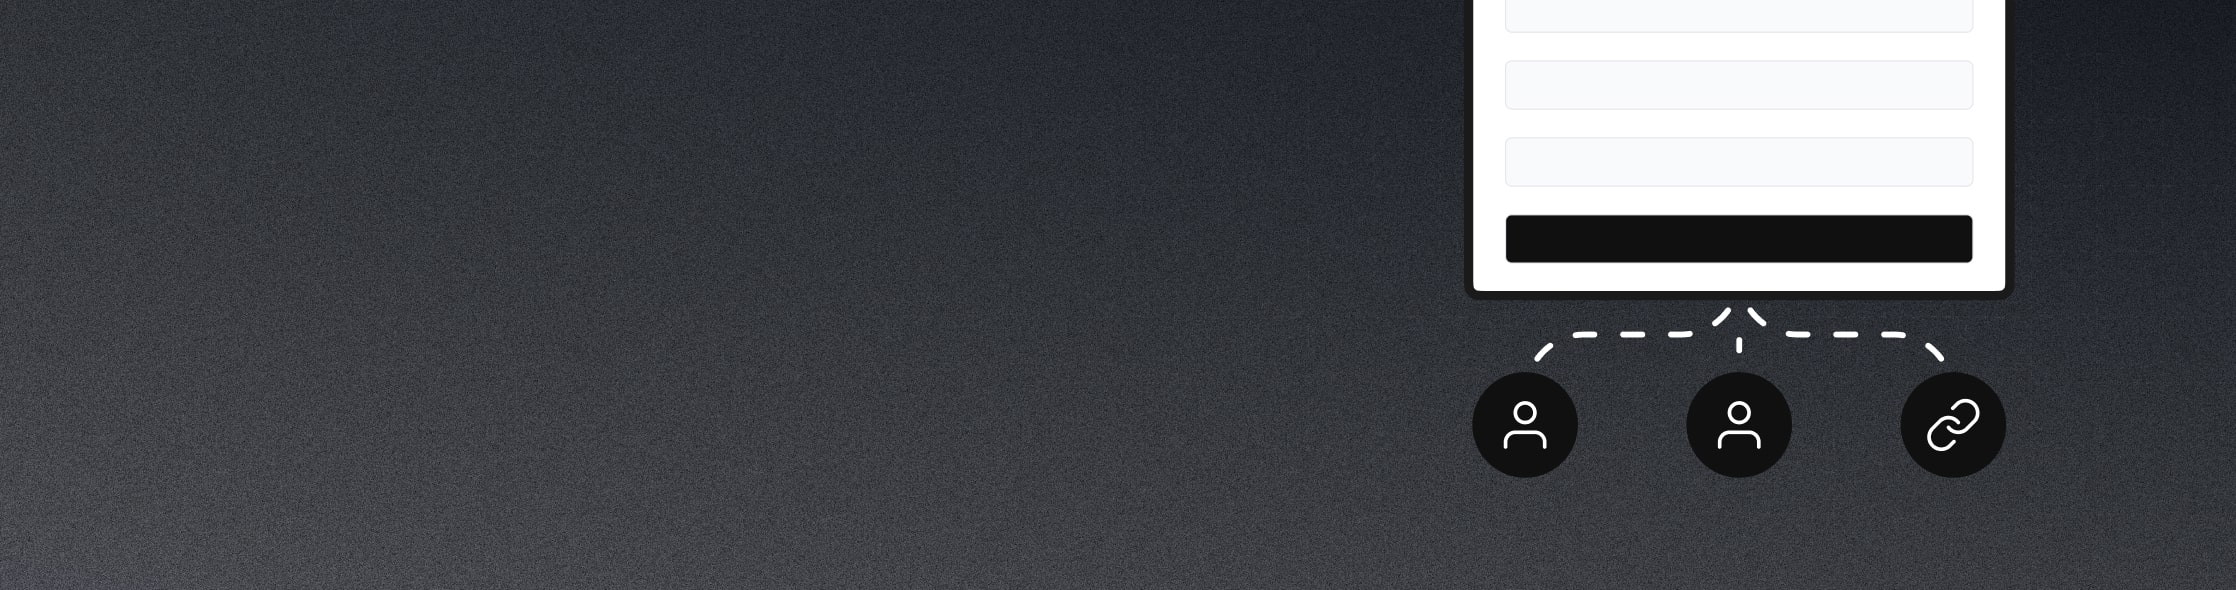
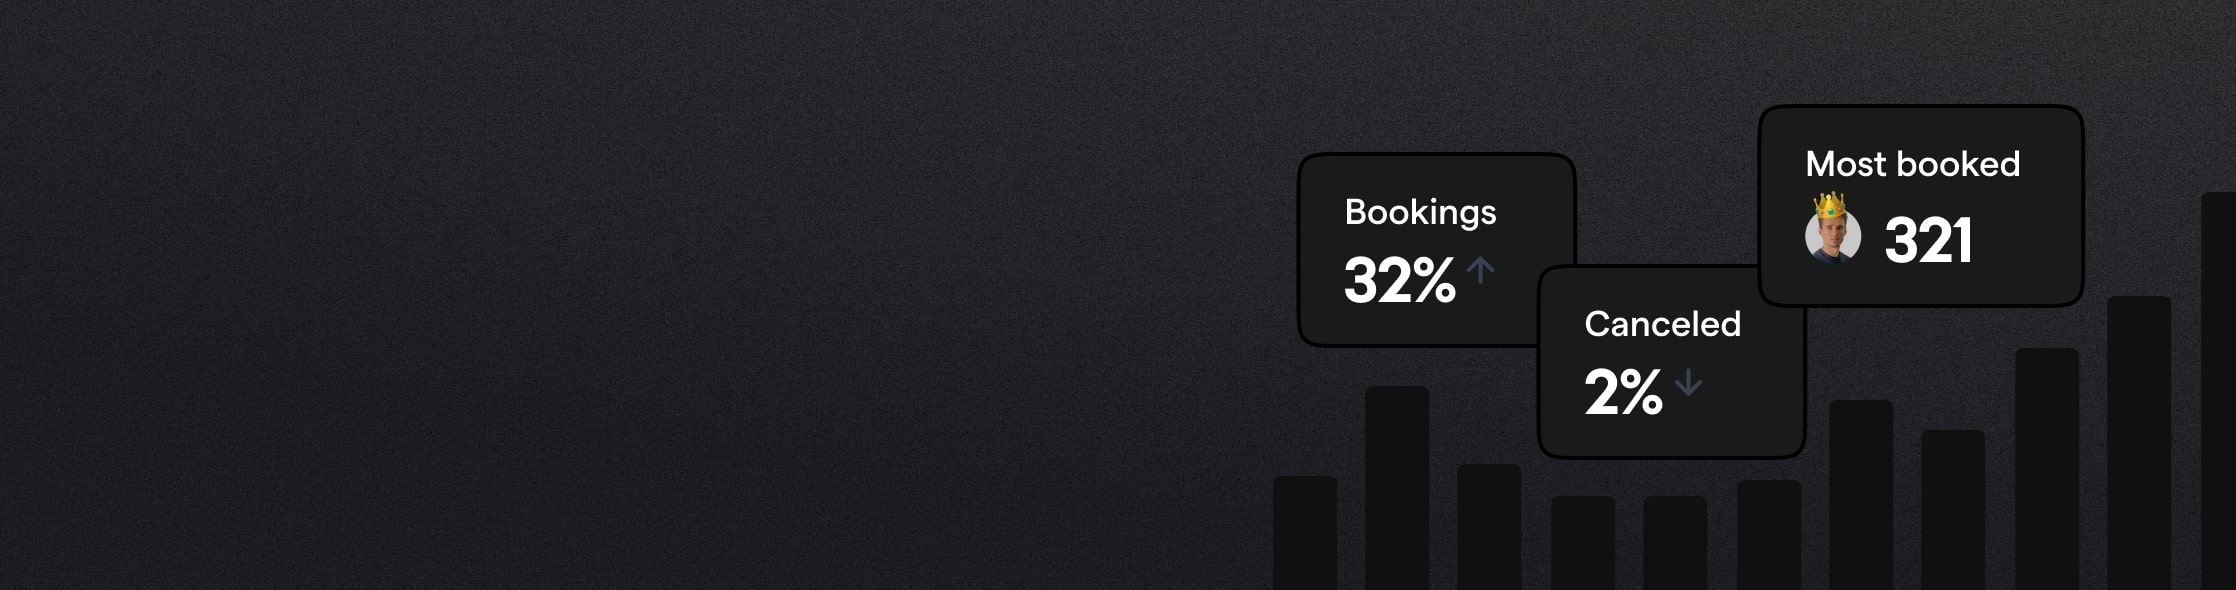
misc frontend fixes (#8416)
* (temp) dark mode changes (#8415)

* fixes skeletons, some wrong buttons, spacing, settings

diff --git a/apps/web/pages/[user].tsx b/apps/web/pages/[user].tsx
@@ -59,7 +59,7 @@ export default function User(props: inferSSRProps<typeof getServerSideProps> & E
       {eventTypes.map((type, index) => (
         <li
           key={index}
-          className=" border-subtle bg-default hover:bg-muted group relative border-b first:rounded-t-md last:rounded-b-md last:border-b-0">
+          className=" border-subtle bg-default dark:bg-muted dark:hover:bg-emphasis hover:bg-muted group relative border-b first:rounded-t-md last:rounded-b-md last:border-b-0">
           <ArrowRight className="text-emphasis absolute right-3 top-3 h-4 w-4 opacity-0 transition-opacity group-hover:opacity-100" />
           <Link
             href={getUsernameSlugLink({ users: props.users, slug: type.slug })}
@@ -123,7 +123,7 @@ export default function User(props: inferSSRProps<typeof getServerSideProps> & E
         <main
           className={classNames(
             shouldAlignCentrally ? "mx-auto" : "",
-            isEmbed ? " border-booker border-booker-width  bg-default rounded-md border" : "",
+            isEmbed ? "border-booker border-booker-width  bg-default rounded-md border" : "",
             "max-w-3xl py-24 px-4"
           )}>
           {isSingleUser && ( // When we deal with a single user, not dynamic group
@@ -161,7 +161,7 @@ export default function User(props: inferSSRProps<typeof getServerSideProps> & E
                 <div
                   key={type.id}
                   style={{ display: "flex", ...eventTypeListItemEmbedStyles }}
-                  className=" border-subtle bg-default hover:bg-muted group relative border-b first:rounded-t-md last:rounded-b-md last:border-b-0">
+                  className="border-subtle dark:bg-muted dark:hover:bg-emphasis hover:bg-muted group relative border-b first:rounded-t-md last:rounded-b-md last:border-b-0">
                   <ArrowRight className="text-emphasis  absolute right-4 top-4 h-4 w-4 opacity-0 transition-opacity group-hover:opacity-100" />
                   {/* Don't prefetch till the time we drop the amount of javascript in [user][type] page which is impacting score for [user] page */}
                   <div className="block w-full p-5">

diff --git a/apps/web/components/ui/UsernameAvailability/PremiumTextfield.tsx b/apps/web/components/ui/UsernameAvailability/PremiumTextfield.tsx
@@ -195,7 +195,7 @@ const PremiumTextfield = (props: ICustomUsernameProps) => {
         <span
           className={classNames(
             isInputUsernamePremium ? "border border-orange-400 " : "",
-            "border-default bg-muted text-subtle hidden h-9 items-center rounded-l-md border border-r-0 border-r-gray-300 px-3 text-sm md:inline-flex"
+            "border-default bg-muted text-subtle hidden h-9 items-center rounded-l-md border border-r-0 px-3 text-sm md:inline-flex"
           )}>
           {process.env.NEXT_PUBLIC_WEBSITE_URL.replace("https://", "").replace("http://", "")}/
         </span>
@@ -215,7 +215,7 @@ const PremiumTextfield = (props: ICustomUsernameProps) => {
                 : "border focus:border",
               markAsError
                 ? "focus:shadow-0 focus:ring-shadow-0 border-red-500  focus:border-red-500 focus:outline-none"
-                : "border-l-gray-300",
+                : "border-l-default",
               disabled ? "bg-subtle text-muted focus:border-0" : ""
             )}
             value={inputUsernameValue}
@@ -234,8 +234,8 @@ const PremiumTextfield = (props: ICustomUsernameProps) => {
                 isInputUsernamePremium ? "text-orange-400" : "",
                 usernameIsAvailable ? "" : ""
               )}>
-              {isInputUsernamePremium ? <StarIconSolid className="mt-[2px] w-6" /> : <></>}
-              {!isInputUsernamePremium && usernameIsAvailable ? <Check className="mt-2 w-6" /> : <></>}
+              {isInputUsernamePremium ? <StarIconSolid className="mt-[2px] h-4 w-4" /> : <></>}
+              {!isInputUsernamePremium && usernameIsAvailable ? <Check className="mt-2 h-4 w-4" /> : <></>}
             </span>
           </div>
         </div>

diff --git a/packages/features/settings/layouts/SettingsLayout.tsx b/packages/features/settings/layouts/SettingsLayout.tsx
@@ -255,8 +255,12 @@ const SettingsSidebarContainer = ({
                                   }),
                                 ])
                               }>
-                              <div className="ltr:mr-3 rtl:ml-3">
-                                {teamMenuState[index].teamMenuOpen ? <ChevronDown /> : <ChevronRight />}
+                              <div className="me-3">
+                                {teamMenuState[index].teamMenuOpen ? (
+                                  <ChevronDown className="h-4 w-4" />
+                                ) : (
+                                  <ChevronRight className="h-4 w-4" />
+                                )}
                               </div>
                               <img
                                 src={getPlaceholderAvatar(team.logo, team?.name as string)}
@@ -352,7 +356,7 @@ const MobileSettingsContainer = (props: { onSideContainerOpen?: () => void }) =>
           <button
             className="hover:bg-emphasis flex items-center space-x-2 rounded-md px-3 py-1 rtl:space-x-reverse"
             onClick={() => router.back()}>
-            <ArrowLeft className="text-default" />
+            <ArrowLeft className="text-default h-4 w-4" />
             <p className="text-emphasis font-semibold">{t("settings")}</p>
           </button>
         </div>

diff --git a/packages/ui/components/apps/AllApps.tsx b/packages/ui/components/apps/AllApps.tsx
@@ -94,7 +94,7 @@ function CategoryTab({ selectedCategory, categories, searchText }: CategoryTabPr
           }}
           className={classNames(
             selectedCategory === null ? "bg-emphasis text-default" : "bg-muted text-emphasis",
-            "hover:bg-emphasis rounded-md px-4 py-2.5 text-sm font-medium hover:cursor-pointer hover:text-gray-50"
+            "hover:bg-emphasis min-w-max rounded-md px-4 py-2.5 text-sm font-medium hover:cursor-pointer hover:text-gray-50"
           )}>
           {t("all_apps")}
         </li>
@@ -168,7 +168,7 @@ export function AllApps({ apps, searchText, categories }: AllAppsPropsType) {
       <CategoryTab selectedCategory={selectedCategory} searchText={searchText} categories={categories} />
       {filteredApps.length ? (
         <div
-          className="grid gap-3 lg:grid-cols-4 [@media(max-width:1270px)]:grid-cols-3 [@media(max-width:730px)]:grid-cols-2 [@media(max-width:500px)]:grid-cols-1"
+          className="grid gap-3 lg:grid-cols-4 [@media(max-width:1270px)]:grid-cols-3 [@media(max-width:730px)]:grid-cols-1 [@media(max-width:500px)]:grid-cols-1"
           ref={appsContainerRef}>
           {filteredApps.map((app) => (
             <AppCard key={app.name} app={app} searchText={searchText} credentials={app.credentials} />

diff --git a/packages/features/form-builder/Components.tsx b/packages/features/form-builder/Components.tsx
@@ -255,7 +255,7 @@ export const Components: Record<BookingFieldType, Component> = {
                     }
                     setValue(newValue);
                   }}
-                  className="dark:bg-darkgray-300 border-subtle border-default text-emphasis h-4 w-4 rounded focus:ring-black ltr:mr-2 rtl:ml-2"
+                  className="dark:bg-darkgray-300 border-subtle text-emphasis h-4 w-4 rounded focus:ring-black ltr:mr-2 rtl:ml-2"
                   value={option.value}
                   checked={value.includes(option.value)}
                 />
@@ -314,7 +314,7 @@ export const Components: Record<BookingFieldType, Component> = {
                         type="radio"
                         disabled={readOnly}
                         name={name}
-                        className="dark:bg-darkgray-300 border-subtle border-default text-emphasis h-4 w-4 focus:ring-black ltr:mr-2 rtl:ml-2"
+                        className="dark:bg-darkgray-300 border-subtle text-emphasis h-4 w-4 focus:ring-black ltr:mr-2 rtl:ml-2"
                         value={option.value}
                         onChange={(e) => {
                           setValue({

diff --git a/packages/features/eventtypes/components/CheckedTeamSelect.tsx b/packages/features/eventtypes/components/CheckedTeamSelect.tsx
@@ -44,14 +44,16 @@ export const CheckedTeamSelect = ({
       />
       {/* This class name conditional looks a bit odd but it allows a seemless transition when using autoanimate
        - Slides down from the top instead of just teleporting in from nowhere*/}
-      <ul className={classNames("mt-3 rounded-md", value.length >= 1 && "border")} ref={animationRef}>
+      <ul
+        className={classNames("mt-3 rounded-md", value.length >= 1 && "border-subtle border")}
+        ref={animationRef}>
         {value.map((option, index) => (
           <li key={option.value} className={`flex py-2 px-3 ${index === value.length - 1 ? "" : "border-b"}`}>
             <Avatar size="sm" imageSrc={option.avatar} alt={option.label} />
-            <p className="text-emphasis my-auto ml-3 text-sm">{option.label}</p>
+            <p className="text-emphasis ms-3 my-auto text-sm">{option.label}</p>
             <X
               onClick={() => props.onChange(value.filter((item) => item.value !== option.value))}
-              className="my-auto ml-auto"
+              className="my-auto ml-auto h-4 w-4"
             />
           </li>
         ))}

diff --git a/packages/features/ee/teams/components/AddNewTeamMembers.tsx b/packages/features/ee/teams/components/AddNewTeamMembers.tsx
@@ -103,6 +103,7 @@ export const AddNewTeamMembersForm = ({
       <hr className="border-subtle my-6" />
       <Button
         EndIcon={ArrowRight}
+        color="primary"
         className="mt-6 w-full justify-center"
         disabled={publishTeamMutation.isLoading}
         onClick={() => {
@@ -118,7 +119,7 @@ export default AddNewTeamMembers;
 
 const AddNewTeamMemberSkeleton = () => {
   return (
-    <SkeletonContainer className="rounded-md border">
+    <SkeletonContainer className="border-subtle rounded-md border">
       <div className="flex w-full justify-between p-4">
         <div>
           <p className="text-emphasis text-sm font-medium">

diff --git a/packages/ui/components/apps/SkeletonLoader.tsx b/packages/ui/components/apps/SkeletonLoader.tsx
@@ -31,9 +31,13 @@ function SkeletonItem() {
       <div className="flex-grow truncate text-sm">
         <div className="flex justify-start space-x-2 rtl:space-x-reverse">
           <SkeletonText className="h-10 w-10" />
-          <div className="space-y-2">
-            <SkeletonText className="h-4 w-32" />
-            <SkeletonText className="h-4 w-16" />
+          <div className="space-y-1">
+            <div>
+              <SkeletonText className="h-4 w-16" />
+            </div>
+            <div>
+              <SkeletonText className="h-4 w-32" />
+            </div>
           </div>
         </div>
       </div>

diff --git a/apps/web/components/ui/UsernameAvailability/UsernameTextfield.tsx b/apps/web/components/ui/UsernameAvailability/UsernameTextfield.tsx
@@ -136,8 +136,8 @@ const UsernameTextfield = (props: ICustomUsernameProps) => {
           />
           {currentUsername !== inputUsernameValue && (
             <div className="absolute right-[2px] top-6 flex flex-row">
-              <span className={classNames("mx-2 py-2")}>
-                {usernameIsAvailable ? <Check className="w-6" /> : <></>}
+              <span className={classNames("mx-2 py-2.5")}>
+                {usernameIsAvailable ? <Check className="h-4 w-4" /> : <></>}
               </span>
             </div>
           )}

diff --git a/packages/ui/components/dialog/Dialog.tsx b/packages/ui/components/dialog/Dialog.tsx
@@ -99,7 +99,7 @@ export const DialogContent = React.forwardRef<HTMLDivElement, DialogContentProps
           {type === "confirmation" && (
             <div className="flex">
               {Icon && (
-                <div className="mr-4 inline-flex h-10 w-10 items-center justify-center rounded-full bg-gray-300">
+                <div className="bg-emphasis mr-4 inline-flex h-10 w-10 items-center justify-center rounded-full">
                   <Icon className="text-emphasis h-4 w-4" />
                 </div>
               )}

diff --git a/apps/web/components/eventtype/EventAppsTab.tsx b/apps/web/components/eventtype/EventAppsTab.tsx
@@ -106,7 +106,7 @@ export const EventAppsTab = ({ eventType }: { eventType: EventType }) => {
       {!shouldLockDisableProps("apps").disabled && (
         <div>
           {!isLoading && notInstalledApps?.length ? (
-            <h2 className="text-emphasis mt-0 mb-2 text-lg font-semibold">{t("available_apps")}</h2>
+            <h2 className="text-emphasis my-2 text-lg font-semibold">{t("available_apps")}</h2>
           ) : null}
           <div className="before:border-0">
             {notInstalledApps?.map((app) => (

diff --git a/packages/ui/components/avatar/AvatarGroup.tsx b/packages/ui/components/avatar/AvatarGroup.tsx
@@ -45,7 +45,7 @@ export const AvatarGroup = function AvatarGroup(props: AvatarGroupProps) {
       {numTruncatedAvatars > 0 && (
         <li
           className={classNames(
-            "bg-darkgray-300 relative -mr-[4px] mb-1 inline-flex justify-center overflow-hidden rounded-full",
+            "bg-inverted relative -mr-[4px] mb-1 inline-flex justify-center overflow-hidden rounded-full",
             props.size === "sm" ? "min-w-6 h-6" : "min-w-16 h-16"
           )}>
           <span
